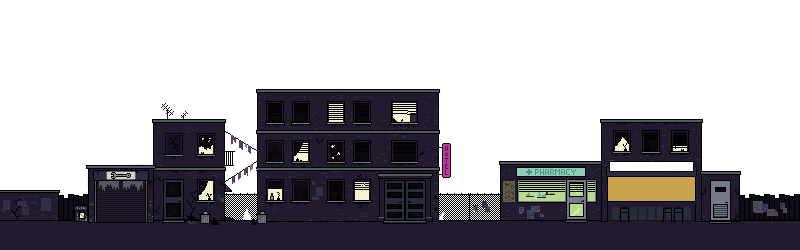
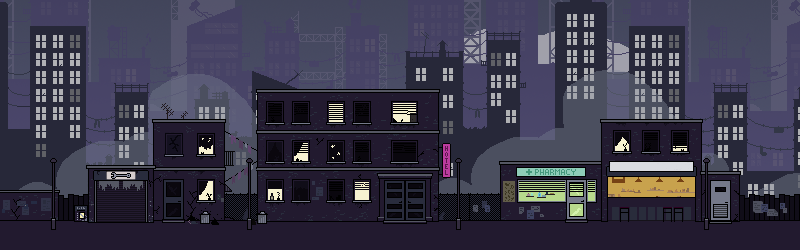
Clean: Rework of main scene

diff --git a/src/Play.cpp b/src/Play.cpp
@@ -16,14 +16,14 @@ std::vector<Entity *> Play::GetSprites()
 
 void Play::SetShader()
 {
-    _sprites[4]->_sprite.setColor(sf::Color(255, 255, 255, _flickAlphaChan));
-    _sprites[5]->_sprite.setColor(sf::Color(255, 255, 255, _blinkAlphaChan));
-    _sprites[7]->_sprite.setColor(sf::Color(255, 255, 255, _catAlphaChan));
+    _sprites[1]->_sprite.setColor(sf::Color(255, 255, 255, _flickAlphaChan));
+    _sprites[2]->_sprite.setColor(sf::Color(255, 255, 255, _blinkAlphaChan));
+    _sprites[4]->_sprite.setColor(sf::Color(255, 255, 255, _catAlphaChan));
 }
 
 void Play::Blinking()
 {
-    _sprites[5]->_sprite.setColor(sf::Color(0, 0, 0, _blinkAlphaChan));
+    _sprites[2]->_sprite.setColor(sf::Color(0, 0, 0, _blinkAlphaChan));
 
     if (_blinkClock.getElapsedTime().asSeconds() > 1.4f && _blinkAlphaChan < 255.f && _blinking == true) {
         _blinkAlphaChan = 255;
@@ -43,7 +43,7 @@ void Play::Blinking()
 void Play::Flickering()
 {
     float r = static_cast <float> (rand()) / static_cast <float> (RAND_MAX);
-    _sprites[4]->_sprite.setColor(sf::Color(0, 0, 0, _flickAlphaChan));
+    _sprites[1]->_sprite.setColor(sf::Color(0, 0, 0, _flickAlphaChan));
 
     if (_blinkClock.getElapsedTime().asSeconds() > r && _flickAlphaChan < 255.f && _flickering == true) {
         _flickAlphaChan = 255;
@@ -62,7 +62,7 @@ void Play::Flickering()
 
 void Play::openCatEyes()
 {
-    _sprites[7]->_sprite.setColor(sf::Color(0, 0, 0, _catAlphaChan));
+    _sprites[4]->_sprite.setColor(sf::Color(0, 0, 0, _catAlphaChan));
 
     if (_catClock.getElapsedTime().asSeconds() > 8.f && _catAlphaChan < 255.f && _catEyes == true) {
         _catAlphaChan = 255;
@@ -81,24 +81,24 @@ void Play::openCatEyes()
 
 void Play::LoadSprites()
 {
-    _sprites.push_back(new Entity("img/play/background_long.png"));
-    _sprites.push_back(new Entity("img/play/paralax1.png"));
-    _sprites.push_back(new Entity("img/play/paralax2.png"));
+    // _sprites.push_back(new Entity("img/play/background_long.png"));
+    // _sprites.push_back(new Entity("img/play/paralax1.png"));
+    // _sprites.push_back(new Entity("img/play/paralax2.png"));
     _sprites.push_back(new Entity("img/play/city.png"));
     _sprites.push_back(new Entity("img/play/HotelLight.png"));
     _sprites.push_back(new Entity("img/play/PharmaLight.png"));
     _sprites.push_back(new Entity("img/play/catOE.png"));
     _sprites.push_back(new Entity("img/play/catCE.png"));
 
-    for (int i = 3; i <= 5; i++) {
+    for (int i = 0; i <= 3; i++) {
         _sprites[i]->_sprite.setScale(3, 3);
         _sprites[i]->_sprite.setPosition(0, -150);
     }
 
-    _sprites[6]->_sprite.setScale(2, 2);
-    _sprites[7]->_sprite.setScale(2, 2);
-    _sprites[6]->_sprite.setPosition(205, -320);
-    _sprites[7]->_sprite.setPosition(205, -320);
+    _sprites[3]->_sprite.setScale(2, 2);
+    _sprites[4]->_sprite.setScale(2, 2);
+    _sprites[3]->_sprite.setPosition(205, -320);
+    _sprites[4]->_sprite.setPosition(205, -320);
 }
 
 void Play::Initialize()
